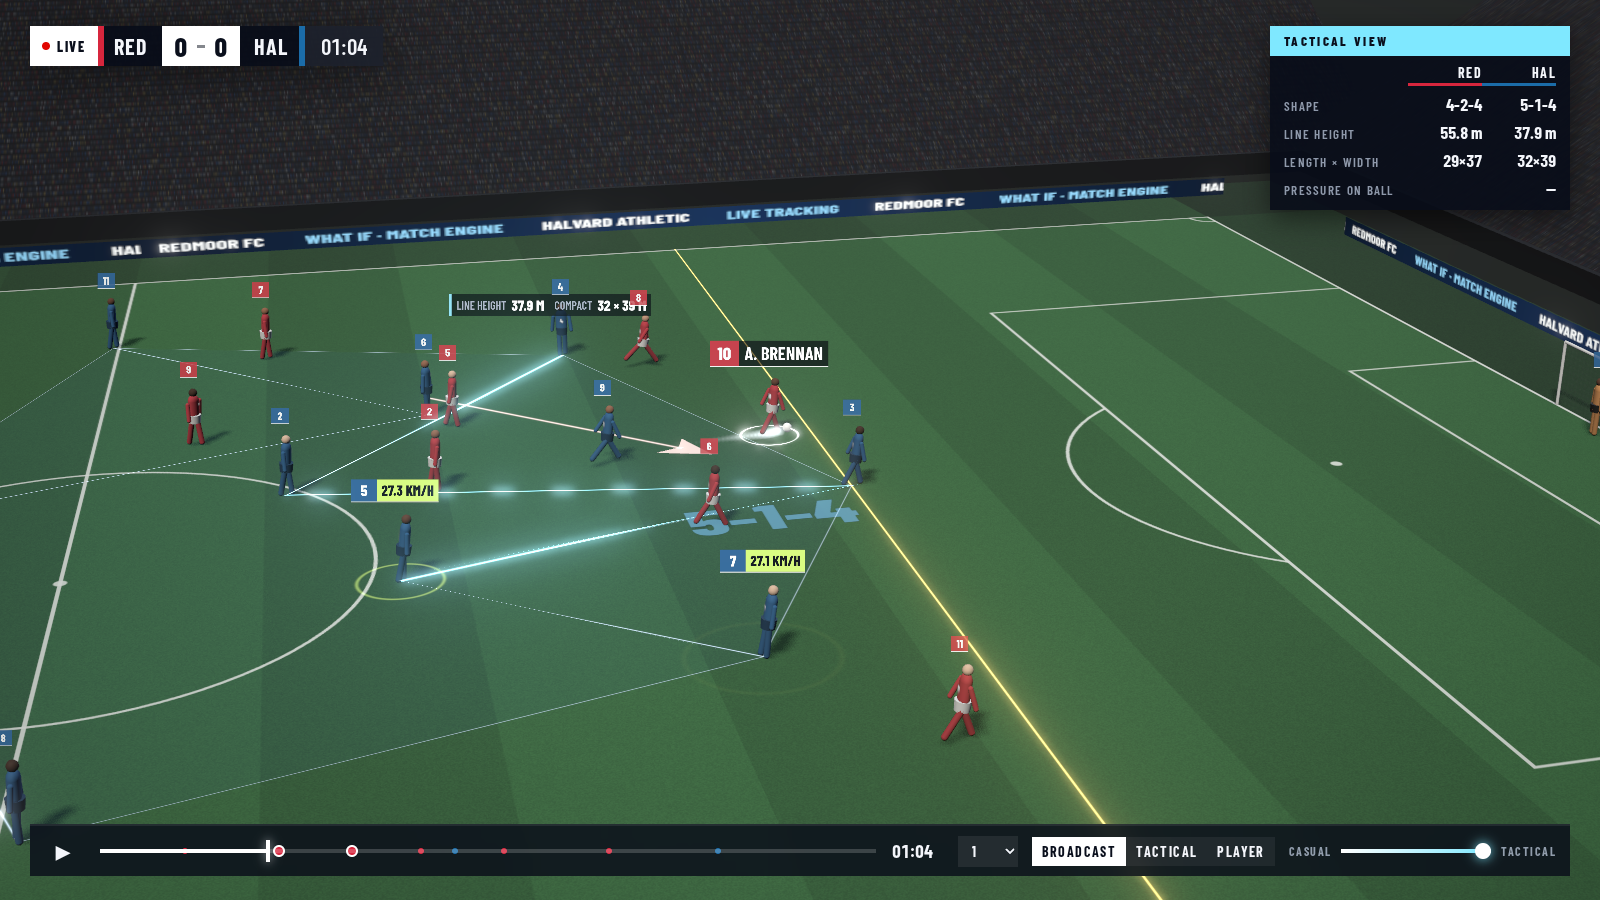
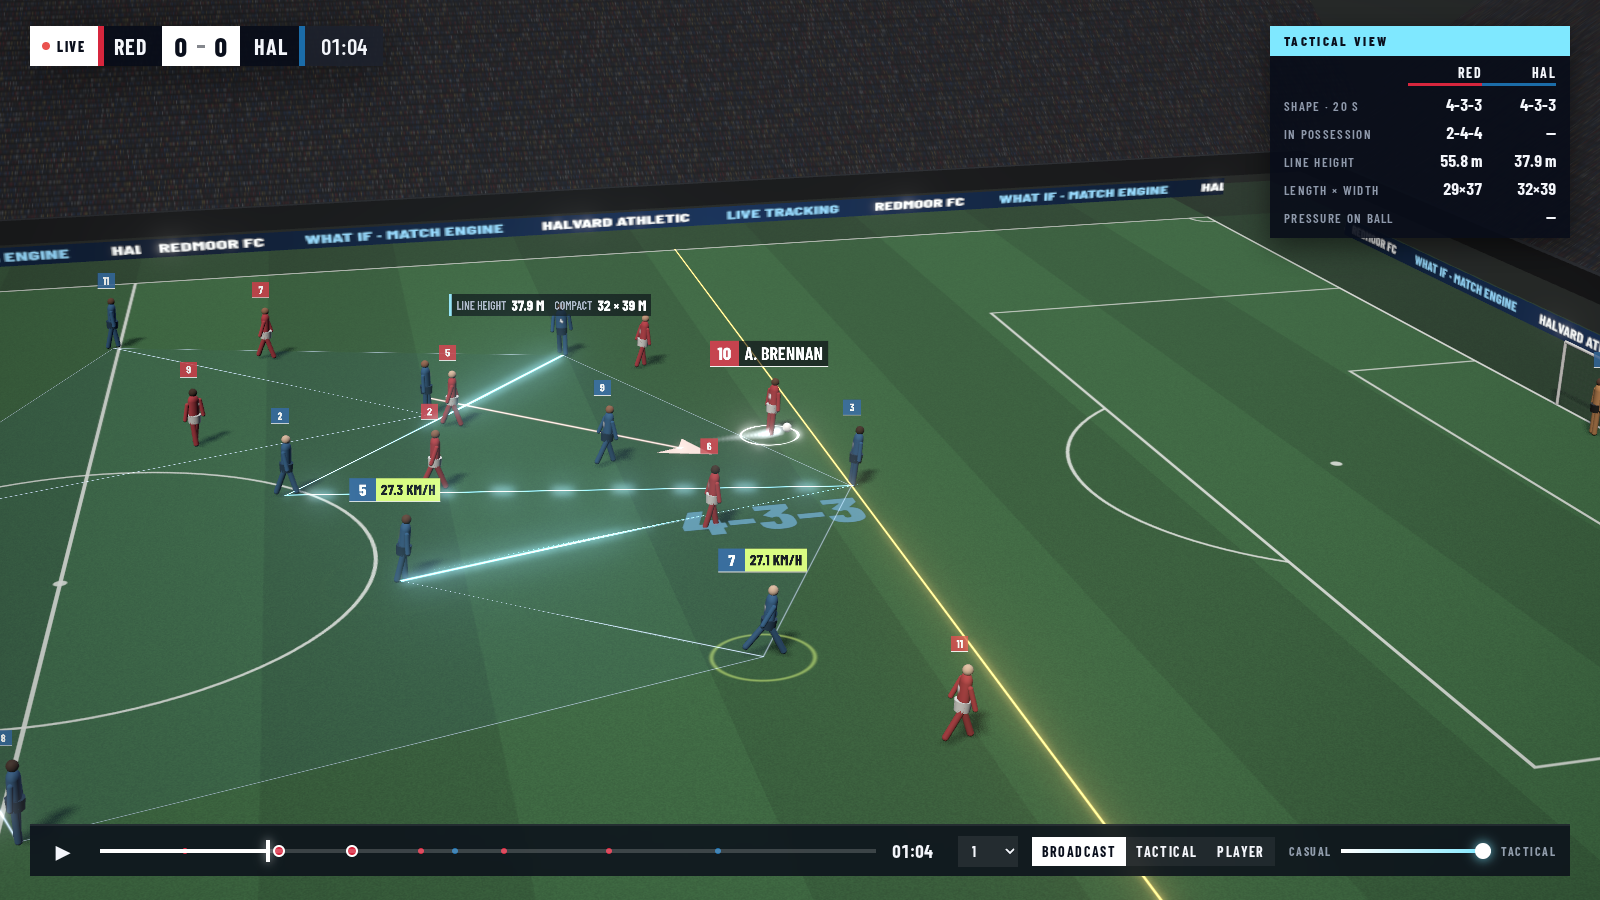
web: ghost clarity, snapped formations, tag declutter
- ghost view: a what-if player only appears when he is >~1.5 m off his original
  position (fades in with the gap); links drop once timelines fully diverge.
  The selected player's path since the fork is drawn on the grass: original
  (white) vs what-if (lime), in ghost and split views.
- formation label: out-of-possession average depths over a rolling 20 s window,
  snapped to 4-4-2/4-3-3/4-2-3-1/3-5-2/5-3-2 with a role prior; the in-possession
  shape (e.g. 2-3-5) is shown only when the base shape clearly doesn't fit.
  Self-check: npm run check.
- tags: screen-space collision by priority (owner > selected > flares > line > numbers),
  losers fade out.
- whatif director restructured: split lead-in, ghost view during the step-up,
  split at the (non-)goal with slow-mo.

diff --git a/web/src/data.ts b/web/src/data.ts
@@ -15,7 +15,7 @@ export interface MatchEvent {
   t: number; type: string; team?: Side; idx?: number; toIdx?: number; from?: V2; to?: V2; ok?: boolean;
   dur?: number; // derived: flight time for pass/shot
 }
-export interface Match { meta: Meta; frames: Frame[]; events: MatchEvent[]; name: string; shapes: Record<Side, string[]> }
+export interface Match { meta: Meta; frames: Frame[]; events: MatchEvent[]; name: string; poss: (Side | null)[]; formCache?: Map<string, Formation> }
 
 export const SIDES: Side[] = ['home', 'away'];
 export const dirOf = (s: Side) => (s === 'home' ? 1 : -1); // home attacks +x
@@ -40,7 +40,9 @@ function prepare(m: Match): Match {
   m.frames.sort((a, b) => a.t - b.t);
   m.events.sort((a, b) => a.t - b.t);
   for (const e of m.events) if (e.type === 'pass' || e.type === 'shot') e.dur = flightTime(m, e);
-  m.shapes = { home: m.frames.map((f) => shapeOf(m, f, 'home').label), away: m.frames.map((f) => shapeOf(m, f, 'away').label) };
+  let last: Side | null = null; // possession = last owner, so passes in flight still count
+  m.poss = m.frames.map((f) => (last = f.owner?.team ?? (f.mode === 'play' ? last : null)));
+  m.formCache = new Map();
   return m;
 }
 
@@ -125,14 +127,59 @@ export function shapeOf(m: Match, f: { home: V2[]; away: V2[] }, side: Side): Sh
   return { label: lines.map((l) => l.length).join('-'), lines, gk, def };
 }
 
-// Most common label over the last few seconds, so the on-screen formation doesn't flicker.
-export function stableShape(m: Match, side: Side, t: number, window = 6) {
-  const i1 = frameIndex(m, t), i0 = Math.max(0, i1 - Math.round(window * m.meta.fps)), count = new Map<string, number>();
-  for (let i = i0; i <= i1; i += 2) count.set(m.shapes[side][i], (count.get(m.shapes[side][i]) ?? 0) + 1);
-  return [...count.entries()].sort((a, b) => b[1] - a[1])[0][0];
+// ---------- formation label: rolling-window average depths snapped to known shapes ----------
+const SHAPES: Record<string, number[]> = { '4-4-2': [4, 4, 2], '4-3-3': [4, 3, 3], '4-2-3-1': [4, 2, 3, 1], '3-5-2': [3, 5, 2], '5-3-2': [5, 3, 2] };
+const POSS_SHAPES: Record<string, number[]> = { ...SHAPES, '3-2-5': [3, 2, 5], '2-3-5': [2, 3, 5], '3-4-3': [3, 4, 3], '2-4-4': [2, 4, 4] };
+const LINE_COST = 6; // m² per extra line, so a 4-line shape must really separate
+
+// sorted depths split into the template's line sizes; cost = mean within-line depth variance (+ per-line penalty)
+export function fitShape(depths: number[], sizes: number[]) {
+  const d = [...depths].sort((a, b) => a - b);
+  let i = 0, ss = 0;
+  for (const n of sizes) {
+    const g = d.slice(i, i + n), mu = g.reduce((a, b) => a + b, 0) / n;
+    ss += g.reduce((a, x) => a + (x - mu) ** 2, 0); i += n;
+  }
+  return ss / d.length + LINE_COST * (sizes.length - 3);
+}
+// prefer: label to favour (hysteresis); back: listed number of defenders (role prior for the back line)
+export function classify(depths: number[], shapes = SHAPES, prefer?: string, back?: number) {
+  const r = Object.entries(shapes).map(([label, sz]) => ({ label,
+    cost: fitShape(depths, sz) - (label === prefer ? 1.5 : 0) + (back && sz[0] !== back ? 2 : 0) })).sort((a, b) => a.cost - b.cost);
+  return r[0];
 }
 
-export interface TeamMetrics { shape: Shape; label: string; lineHeight: number; length: number; width: number; offsideX: number }
+export interface Formation { label: string; inPoss: string | null }
+// Out-of-possession shape over ~20 s; in-possession shape only when the base shape clearly doesn't fit it.
+export function formationAt(m: Match, side: Side, t: number, window = 20): Formation {
+  const i1 = frameIndex(m, t), key = `${side}${Math.floor(i1 / 5)}`;
+  const hit = m.formCache?.get(key); if (hit) return hit;
+  const d = dirOf(side), metaP = m.meta[side].players, gk = Math.max(0, metaP.findIndex((p) => p.pos === 'GK'));
+  const acc = { in: { s: new Array(11).fill(0), n: 0 }, out: { s: new Array(11).fill(0), n: 0 } };
+  const step = Math.max(1, Math.round(m.meta.fps / 2));
+  for (let i = Math.max(0, i1 - window * m.meta.fps); i <= i1; i += step) {
+    const p = m.poss[i]; if (!p) continue;
+    const a = p === side ? acc.in : acc.out;
+    m.frames[i][side].forEach((q, j) => (a.s[j] += q[0] * d)); a.n++;
+  }
+  const avg = (a: typeof acc.in) => a.s.map((v) => v / a.n).filter((_, j) => j !== gk);
+  const all = acc.in.n + acc.out.n;
+  let res: Formation = { label: '—', inPoss: null };
+  if (all) {
+    const outD = acc.out.n >= 6 ? avg(acc.out) : avg({ s: acc.in.s.map((v, j) => v + acc.out.s[j]), n: all });
+    const back = metaP.filter((p) => DEF.test(p.pos)).length || undefined;
+    const base = classify(outD, SHAPES, undefined, back).label;
+    res = { label: base, inPoss: null };
+    if (acc.in.n >= 6) {
+      const inD = avg(acc.in), best = classify(inD, POSS_SHAPES, base);
+      if (best.label !== base && fitShape(inD, POSS_SHAPES[base]) - best.cost > 4) res.inPoss = best.label;
+    }
+  }
+  m.formCache?.set(key, res);
+  return res;
+}
+
+export interface TeamMetrics { shape: Shape; label: string; inPoss: string | null; lineHeight: number; length: number; width: number; offsideX: number }
 export function metrics(m: Match, s: Snapshot, side: Side): TeamMetrics {
   const d = dirOf(side), P = s.pos[side], shape = shapeOf(m, s.pos, side);
   const out = P.filter((_, i) => i !== shape.gk), depth = (p: V2) => p[0] * d + 52.5;
@@ -143,7 +190,7 @@ export function metrics(m: Match, s: Snapshot, side: Side): TeamMetrics {
   const sorted = P.map(depth).sort((a, b) => a - b), ballDepth = s.ball[0] * d + 52.5;
   const offDepth = Math.min(sorted[1], 52.5, Math.max(ballDepth, 0));
   return {
-    shape, label: stableShape(m, side, s.t), lineHeight,
+    shape, ...formationAt(m, side, s.t), lineHeight,
     length: Math.max(...xs) - Math.min(...xs), width: Math.max(...ys) - Math.min(...ys),
     offsideX: (offDepth - 52.5) * d,
   };

diff --git a/web/src/graphics.ts b/web/src/graphics.ts
@@ -28,7 +28,7 @@ const ribbonMat = (color: THREE.Color) => new THREE.ShaderMaterial({
     }`,
 });
 
-class Ribbon {
+export class Ribbon {
   mesh: THREE.Mesh; mat: THREE.ShaderMaterial; geo = new THREE.BufferGeometry();
   pos: Float32Array; uv: Float32Array;
   constructor(public width: number, color: THREE.Color, max = 64) {
@@ -94,18 +94,21 @@ class Disc {
 }
 
 // ---------- screen-sized text tag anchored in the world ----------
+let tagIds = 0;
 class Tag {
   canvas = document.createElement('canvas'); g: CanvasRenderingContext2D; tex: THREE.CanvasTexture; sprite: THREE.Sprite; key = '';
+  id = tagIds++; contentW: number; screenH = 0; alpha = 0;
   constructor(public w = 640, public h = 96) {
-    this.canvas.width = w; this.canvas.height = h; this.g = this.canvas.getContext('2d')!;
+    this.canvas.width = w; this.canvas.height = h; this.g = this.canvas.getContext('2d')!; this.contentW = w;
     this.tex = new THREE.CanvasTexture(this.canvas); this.tex.colorSpace = THREE.SRGBColorSpace;
     this.tex.minFilter = THREE.LinearFilter; this.tex.generateMipmaps = false;
     this.sprite = new THREE.Sprite(new THREE.SpriteMaterial({ map: this.tex, transparent: true, depthTest: false, depthWrite: false, sizeAttenuation: false }));
     this.sprite.center.set(0.5, 0); this.sprite.renderOrder = 10;
   }
-  draw(key: string, fn: (g: CanvasRenderingContext2D, w: number, h: number) => void) {
+  draw(key: string, fn: (g: CanvasRenderingContext2D, w: number, h: number) => number | void) {
     if (key === this.key) return;
-    this.key = key; this.g.clearRect(0, 0, this.w, this.h); fn(this.g, this.w, this.h); this.tex.needsUpdate = true;
+    this.key = key; this.g.clearRect(0, 0, this.w, this.h);
+    this.contentW = Math.min(this.w, fn(this.g, this.w, this.h) ?? this.w); this.tex.needsUpdate = true;
   }
   place(p: THREE.Vector3 | null, screenH: number, cam: THREE.PerspectiveCamera, opacity: number) {
     this.sprite.visible = !!p && opacity > 0.01;
@@ -113,7 +116,7 @@ class Tag {
     this.sprite.position.copy(p);
     const s = screenH * 2 * Math.tan(THREE.MathUtils.degToRad(cam.fov) / 2);
     this.sprite.scale.set((s * this.w) / this.h, s, 1);
-    this.sprite.material.opacity = opacity;
+    this.sprite.material.opacity = this.alpha = opacity; this.screenH = screenH;
   }
 }
 
@@ -135,6 +138,7 @@ function chip(g: CanvasRenderingContext2D, w: number, h: number, color: string, 
     g.fillText(accent, x0 + numW + nameW + accW / 2, y0 + ch / 2 + 2);
   }
   g.fillStyle = 'rgba(255,255,255,0.9)'; g.fillRect(x0, y0 + ch, total, 3); // underline
+  return total;
 }
 function metricChip(g: CanvasRenderingContext2D, w: number, h: number, color: string, parts: [string, string][]) {
   const fs = h * 0.5, pad = 14;
@@ -150,6 +154,7 @@ function metricChip(g: CanvasRenderingContext2D, w: number, h: number, color: st
     g.font = `800 ${fs}px ${FONT}`; g.fillStyle = '#fff'; g.fillText(v, x + pad * 2 + kw, y0 + ch / 2 + 2);
     x += widths[i];
   });
+  return total;
 }
 
 // ---------- flat text on the grass ----------
@@ -369,5 +374,25 @@ export class Graphics {
       });
     } else { this.pressure.set(null, 0, new THREE.Color(), 0, now); this.pressLines.forEach((r) => r.set([], 0)); }
     this.pressureCount = n;
+    this.declutter(cam, dt);
+  }
+
+  // screen-space collision: walk tags by priority, hide (fade) any that overlap an already-kept one
+  private declutter(cam: THREE.PerspectiveCamera, dt: number) {
+    cam.updateMatrixWorld();
+    const order = [this.ownerTag, this.selTag, ...this.flareTags, this.lineTag, ...this.numTags.home, ...this.numTags.away];
+    const kept: number[][] = [], v = new THREE.Vector3(), pad = 0.006;
+    for (const t of order) {
+      let ok = t.sprite.visible && t.alpha > 0.01;
+      if (ok) {
+        v.copy(t.sprite.position).project(cam);
+        const hh = t.screenH * 2, ww = (hh * t.contentW) / t.h / cam.aspect; // NDC units
+        const r = [v.x - ww / 2 - pad, v.x + ww / 2 + pad, v.y - pad, v.y + hh + pad];
+        ok = !kept.some((k) => r[0] < k[1] && r[1] > k[0] && r[2] < k[3] && r[3] > k[2]);
+        if (ok) kept.push(r);
+      }
+      const f = this.fade(`tag${t.id}`, ok ? 1 : 0, dt, 12);
+      t.sprite.material.opacity = t.alpha * f;
+    }
   }
 }

diff --git a/web/src/players.ts b/web/src/players.ts
@@ -14,7 +14,7 @@ function numberTexture(num: number, fg = '#ffffff') {
   const t = new THREE.CanvasTexture(c); t.colorSpace = THREE.SRGBColorSpace; return t;
 }
 
-export interface Figure { root: THREE.Group; legs: THREE.Object3D[]; arms: THREE.Object3D[]; phase: number; yaw: number; last: THREE.Vector3 }
+export interface Figure { mats: THREE.Material[]; root: THREE.Group; legs: THREE.Object3D[]; arms: THREE.Object3D[]; phase: number; yaw: number; last: THREE.Vector3 }
 
 const geo = {
   torso: new THREE.CapsuleGeometry(0.2, 0.42, 4, 10),
@@ -49,7 +49,7 @@ function figure(shirt: THREE.Color, shorts: THREE.Color, skin: number, num: numb
     body.traverse((o) => { if ((o as THREE.Mesh).isMesh && o !== back && o !== front) o.castShadow = true; });
   }
   body.traverse((o) => { o.userData.figureRoot = root; });
-  return { root, legs, arms, phase: Math.random() * 6, yaw: 0, last: new THREE.Vector3() };
+  return { mats: [shirtM, shortsM, skinM, sockM], root, legs, arms, phase: Math.random() * 6, yaw: 0, last: new THREE.Vector3() };
 }
 
 export class Players {
@@ -84,7 +84,9 @@ export class Players {
     this.ball.castShadow = !ghost; this.group.add(this.ball);
     if (ghost) {
       const g = new THREE.BufferGeometry(); g.setAttribute('position', new THREE.BufferAttribute(new Float32Array(22 * 6), 3));
-      this.links = new THREE.LineSegments(g, new THREE.LineBasicMaterial({ color: new THREE.Color(2.2, 2.6, 1.0), transparent: true, opacity: 0.9, toneMapped: false }));
+      g.setAttribute('color', new THREE.BufferAttribute(new Float32Array(22 * 6), 3));
+      this.links = new THREE.LineSegments(g, new THREE.LineBasicMaterial({ vertexColors: true, transparent: true, blending: THREE.AdditiveBlending,
+        depthWrite: false, toneMapped: false }));
       this.links.frustumCulled = false; this.group.add(this.links);
     }
     if (!ghost) {
@@ -99,14 +101,23 @@ export class Players {
 
   update(s: Snapshot, dt: number, ref?: Snapshot) {
     const v = new THREE.Vector3();
+    // ghost: only players whose what-if position differs (>~1.5 m) show up, fading in with the difference
     if (this.links && ref) {
-      const a = this.links.geometry.attributes.position as THREE.BufferAttribute; let k = 0;
+      const a = this.links.geometry.attributes.position as THREE.BufferAttribute, c = this.links.geometry.attributes.color as THREE.BufferAttribute;
+      let k = 0;
+      const vis = (d: number) => Math.min(1, Math.max(0, (d - 1.0) / 1.5));
       for (const side of SIDES) s.pos[side].forEach(([x, y], i) => {
-        const [rx, ry] = ref.pos[side][i], far = Math.hypot(x - rx, y - ry) > 1.5;
-        a.setXYZ(k++, x, 0.08, -y); a.setXYZ(k++, far ? rx : x, 0.08, far ? -ry : -y);
-        this.rings[(side === 'home' ? 0 : 11) + i].position.set(x, 0.05, -y);
+        const [rx, ry] = ref.pos[side][i], d = Math.hypot(x - rx, y - ry), al = vis(d), f = this.figs[side][i];
+        const ln = al * Math.min(1, Math.max(0, (22 - d) / 6)); // no links once the timelines have fully diverged
+        a.setXYZ(k, x, 0.08, -y); c.setXYZ(k++, 1.3 * ln, 1.6 * ln, 0.6 * ln);
+        a.setXYZ(k, rx, 0.08, -ry); c.setXYZ(k++, 0.3 * ln, 0.35 * ln, 0.15 * ln);
+        const ring = this.rings[(side === 'home' ? 0 : 11) + i];
+        ring.position.set(x, 0.05, -y); ring.visible = f.root.visible = al > 0.02;
+        (ring.material as THREE.MeshBasicMaterial).opacity = 0.8 * al;
+        for (const m of f.mats) m.opacity = 0.55 * al;
       });
-      a.needsUpdate = true;
+      a.needsUpdate = c.needsUpdate = true;
+      (this.ball.material as THREE.MeshBasicMaterial).opacity = 0.6 * vis(Math.hypot(s.ball[0] - ref.ball[0], s.ball[1] - ref.ball[1]));
     }
     for (const side of SIDES)
       this.figs[side].forEach((f, i) => {

diff --git a/web/src/main.ts b/web/src/main.ts
@@ -4,10 +4,10 @@ import '@fontsource/barlow-condensed/800.css';
 import '@fontsource/barlow-condensed/800-italic.css';
 import './style.css';
 import * as THREE from 'three';
-import { Match, Side, loadMatch, mergeFork, snapshot, duration, startTime, clock } from './data';
-import { buildStadium, makeComposer } from './scene';
+import { Match, Side, loadMatch, mergeFork, snapshot, positionsAt, duration, startTime, clock } from './data';
+import { buildStadium, makeComposer, toWorld } from './scene';
 import { Players } from './players';
-import { Graphics } from './graphics';
+import { Graphics, Ribbon } from './graphics';
 import { CameraRig, CamMode } from './cameras';
 import { initHud } from './hud';
 import { loadScript, evalCues, ViewMode } from './director';
@@ -23,8 +23,10 @@ class View {
   post = makeComposer(this.renderer, this.scene, this.cam);
   players: Players; gfx: Graphics; ghosts: Players | null = null;
   label: HTMLElement;
+  // selected player's path since the fork: [original (white), what-if (lime)]
+  paths = [new Ribbon(0.45, new THREE.Color(1.5, 1.5, 1.5), 160), new Ribbon(0.45, new THREE.Color(1.5, 2.2, 0.35), 160)];
 
-  constructor(public match: Match, labelText: string, ghostOf: Match | null, whatIf = false) {
+  constructor(public match: Match, labelText: string, ghostOf: Match | null, public whatIf = false) {
     this.el.className = 'view';
     this.el.append(this.renderer.domElement);
     this.label = document.createElement('div');
@@ -36,7 +38,7 @@ class View {
     this.renderer.outputColorSpace = THREE.SRGBColorSpace;
     buildStadium(this.renderer, this.scene, [match.meta.home.name, match.meta.away.name]);
     this.players = new Players(match); this.gfx = new Graphics(match);
-    this.scene.add(this.players.group, this.gfx.group);
+    this.scene.add(this.players.group, this.gfx.group, ...this.paths.map((p) => p.mesh));
     if (ghostOf) { this.ghosts = new Players(ghostOf, true); this.scene.add(this.ghosts.group); }
     this.renderer.domElement.addEventListener('click', (ev) => this.pick(ev));
   }
@@ -63,6 +65,15 @@ class View {
       this.ghosts.group.visible = on;
       if (on) this.ghosts.update(fs, dt, s);
     }
+    const sel = state.selected, after = t > forkT;
+    const trail = (m: Match, r: Ribbon, on: boolean) => {
+      if (!on || !sel) return r.set([], 0);
+      const t0 = Math.max(forkT - 1, t - 14), n = Math.max(2, Math.min(150, Math.ceil((t - t0) / 0.1)));
+      const pts = Array.from({ length: n + 1 }, (_, k) => { const [x, y] = positionsAt(m, t0 + ((t - t0) * k) / n).pos[sel.side][sel.idx]; return toWorld(x, y, 0.06); });
+      r.set(pts, 0.85);
+    };
+    trail(this.match, this.paths[this.whatIf ? 1 : 0], after);
+    if (!this.whatIf) trail(this.ghosts?.match ?? this.match, this.paths[1], after && !!this.ghosts?.group.visible);
     this.rig.update(s, state.cam === 'player' ? state.selected : null, dt);
     this.gfx.update(s, { lens: state.lens, selected: state.selected, now, dt, cam: this.cam });
     this.post.grade.uniforms.desat.value = state.lens * 0.22;

diff --git a/web/index.html b/web/index.html
@@ -21,7 +21,8 @@
   <div id="tactics" class="hud">
     <div class="tp-head">TACTICAL VIEW</div>
     <div class="tp-row tp-teams"><span></span><b class="home"></b><b class="away"></b></div>
-    <div class="tp-row"><span>SHAPE</span><b data-k="label-home"></b><b data-k="label-away"></b></div>
+    <div class="tp-row"><span>SHAPE · 20 S</span><b data-k="label-home"></b><b data-k="label-away"></b></div>
+    <div class="tp-row"><span>IN POSSESSION</span><b data-k="poss-home"></b><b data-k="poss-away"></b></div>
     <div class="tp-row"><span>LINE HEIGHT</span><b data-k="line-home"></b><b data-k="line-away"></b></div>
     <div class="tp-row"><span>LENGTH × WIDTH</span><b data-k="cmp-home"></b><b data-k="cmp-away"></b></div>
     <div class="tp-row"><span>PRESSURE ON BALL</span><b data-k="press" class="wide"></b></div>

diff --git a/web/scripts/check-formation.ts b/web/scripts/check-formation.ts
@@ -1,0 +1,10 @@
+// Self-check for the formation snapper: node --experimental-strip-types scripts/check-formation.ts
+import assert from 'node:assert/strict';
+import { classify } from '../src/data.ts';
+
+const line = (depth: number, n: number) => Array.from({ length: n }, (_, i) => depth + (i % 2 ? 0.8 : -0.8));
+assert.equal(classify([...line(-35, 4), ...line(-20, 4), ...line(-5, 2)], undefined, undefined, 4).label, '4-4-2');
+assert.equal(classify([...line(-35, 4), ...line(-20, 3), ...line(-4, 3)], undefined, undefined, 4).label, '4-3-3');
+assert.equal(classify([...line(-36, 3), ...line(-20, 5), ...line(-4, 2)]).label, '3-5-2');
+assert.equal(classify([...line(-36, 4), ...line(-27, 2), ...line(-16, 3), ...line(-3, 1)], undefined, undefined, 4).label, '4-2-3-1');
+console.log('formation check ok');

diff --git a/web/src/hud.ts b/web/src/hud.ts
@@ -47,6 +47,7 @@ export function initHud(m: Match, fork: Match | null) {
       scrub.style.setProperty('--p', pct(s.t));
       if (met) for (const side of ['home', 'away'] as Side[]) {
         setText($(`[data-k=label-${side}]`), met[side].label);
+        setText($(`[data-k=poss-${side}]`), met[side].inPoss ?? '—');
         setText($(`[data-k=line-${side}]`), `${met[side].lineHeight.toFixed(1)} m`);
         setText($(`[data-k=cmp-${side}]`), `${met[side].length.toFixed(0)}×${met[side].width.toFixed(0)}`);
       }

diff --git a/web/README.md b/web/README.md
@@ -19,9 +19,24 @@ Modules (`src/`): `data` (load, interpolation, formation/line/offside metrics), 
 `players` (figures, ball, trail, ghosts), `graphics` (3D overlays with lens weights), `cameras` (rig + blends),
 `hud` (DOM overlay), `main` (views, split/ghost, loop, controls).
 
+## Filming (deterministic, any machine)
+
+```bash
+npm run record -- --url '?director=whatif' --out shots/whatif.mp4      # window from the script
+npm run record -- --url '?match=match&cam=broadcast&lens=0' --from 60 --to 72 --fps 30 --out shots/x.mp4
+```
+The recorder builds a frozen copy of the app, opens it with `&capture=1` and steps match time by exactly 1/fps per frame (slow-mo cues add frames).
+Each frame is screenshotted in headless Chrome (swiftshader) and piped to ffmpeg (h264, yuv420p, 1920×1080).
+On this box that is about 1.5 s per frame, or 2 views ≈ 3 s per frame in split.
+
+**Director cues** (`src/director.ts`, scripts in `public/directors/*.json`, or `?cues=<url>`): a list of
+`{ t, cam, cut, lens, lensTo, over, speed, view, select, caption: { title, text, dur } }` keyed on match time.
+They are folded from scratch each frame, so scrubbing and recording are exact. Agents can emit the same JSON.
+
+`npm run check` runs the formation snapper self-check.
+
 Screenshots: `npm run shots`. This needs a running server plus a Chrome that works headless. The snap chromium on the box does not, so use:
 ```bash
-npx @puppeteer/browsers install chrome-headless-shell@stable --path /tmp/pl-browsers
-CHROME=$(ls /tmp/pl-browsers/chrome-headless-shell/*/chrome-headless-shell-linux64/chrome-headless-shell) \
-  BASE=http://localhost:5173 T=64.5 npm run shots
+npx @puppeteer/browsers install chrome-headless-shell@stable --path ../../.tools/pl-browsers   # found automatically there
+BASE=http://localhost:5173 T=64.5 npm run shots
 ```
